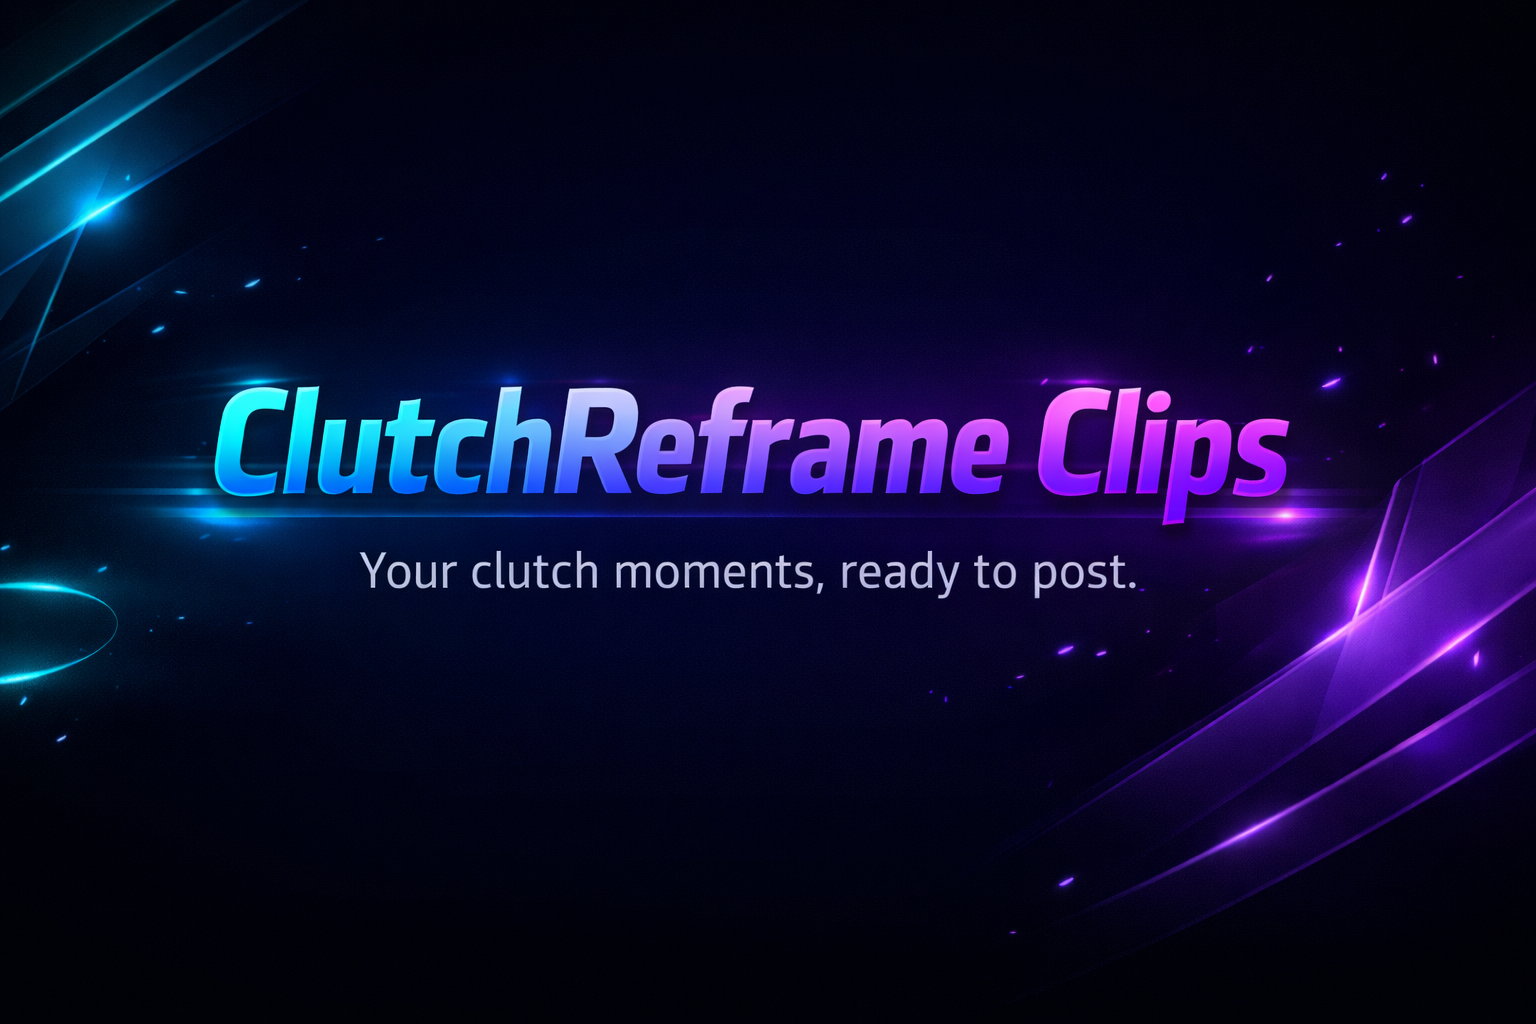
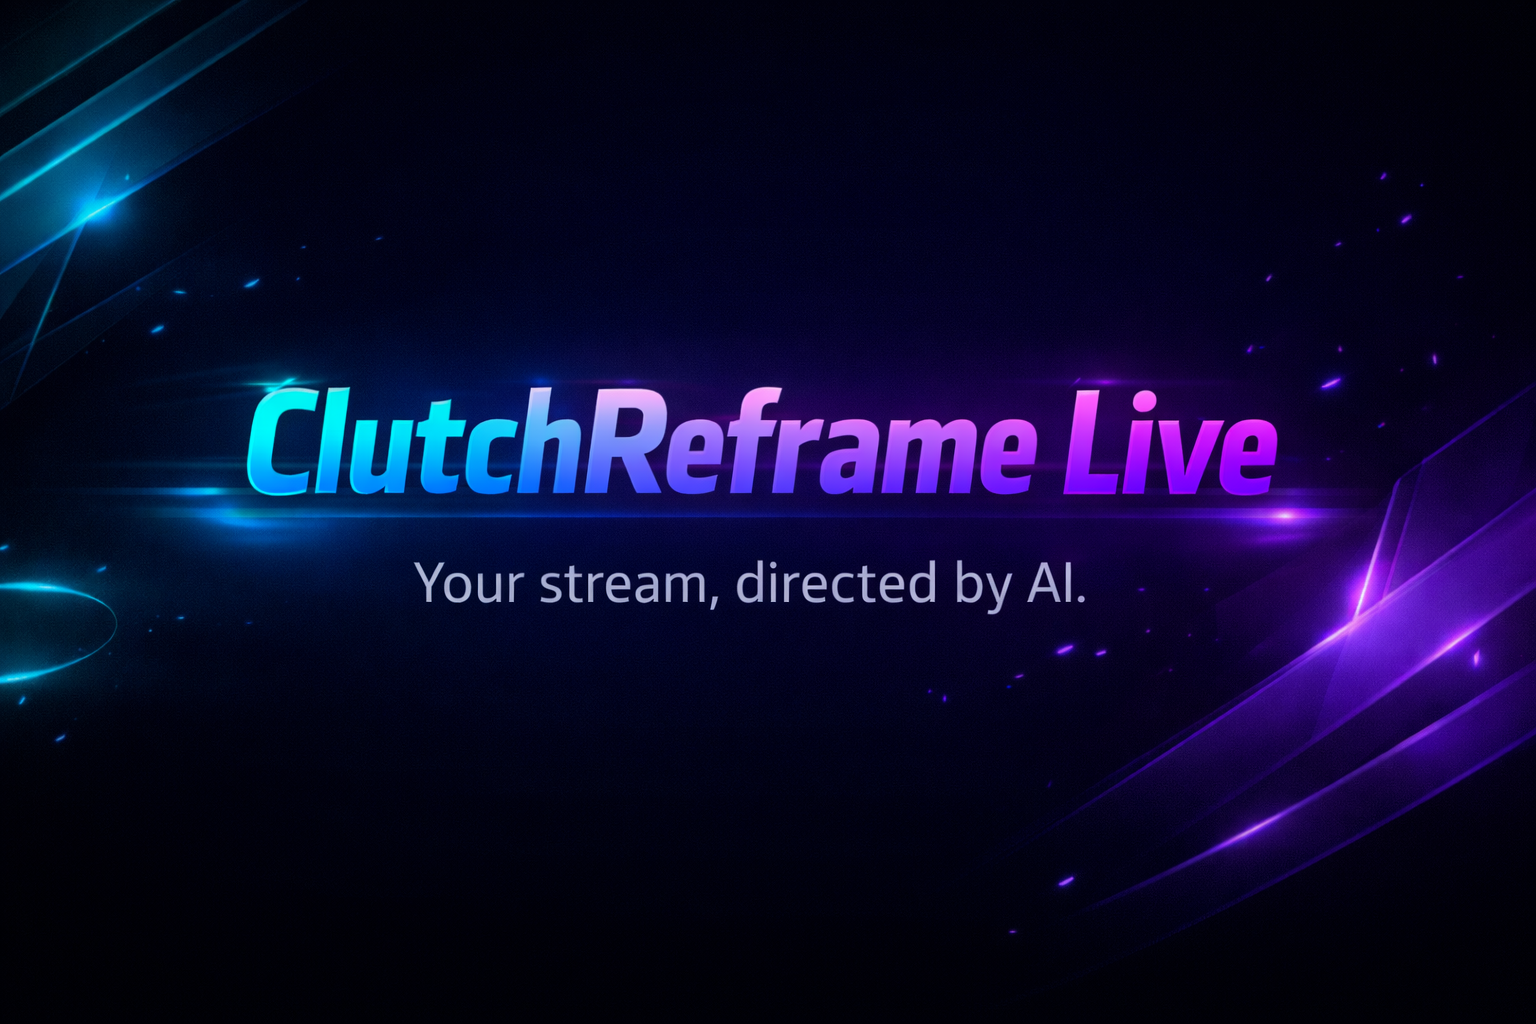
根据产品说明更新网站

diff --git a/index.html b/index.html
@@ -3,13 +3,13 @@
 <head>
     <meta charset="UTF-8">
     <meta name="viewport" content="width=device-width, initial-scale=1.0">
-    <meta name="description" content="ClutchReframe Live | Real-time automatic camera control for League of Legends live streams. Built for OBS Studio. Only affects what viewers see — your game view stays unchanged. Fully local.">
+    <meta name="description" content="ClutchReframe Live | Real-time automatic camera direction for League of Legends live streams. Built as an OBS Studio video filter. Only affects what viewers see. Your game view stays unchanged. Fully local.">
     <meta name="theme-color" content="#05050d">
 
     <!-- Open Graph -->
     <meta property="og:type" content="website">
     <meta property="og:title" content="ClutchReframe Live | LoL Stream Auto-Camera">
-    <meta property="og:description" content="Real-time automatic camera control for LoL live streams. Only your viewers see the camera work — your game view is unchanged. Fully local. Built for OBS Studio.">
+    <meta property="og:description" content="Real-time automatic camera direction for LoL live streams. Only your viewers see the camera work. Your game view is unchanged. Fully local. Built as an OBS Studio video filter.">
     <meta property="og:url" content="https://live.clutchreframe.com/">
     <meta property="og:image" content="https://live.clutchreframe.com/og-image.png">
     <meta property="og:image:width" content="1200">
@@ -19,7 +19,7 @@
     <!-- Twitter Card -->
     <meta name="twitter:card" content="summary_large_image">
     <meta name="twitter:title" content="ClutchReframe Live | LoL Stream Auto-Camera">
-    <meta name="twitter:description" content="Real-time automatic camera control for LoL live streams. Built for OBS Studio.">
+    <meta name="twitter:description" content="Real-time automatic camera direction for LoL live streams. Built as an OBS Studio video filter.">
     <meta name="twitter:image" content="https://live.clutchreframe.com/og-image.png">
 
     <title>ClutchReframe Live | LoL Stream Auto-Camera</title>
@@ -809,7 +809,7 @@
         </h1>
 
         <p class="hero-subtitle">
-            Your stream, directed by AI. Automatic camera control for League of Legends live streams — smart panning and zooming that only your viewers see. No cloud, fully local.
+            Your stream, directed by AI. Automatic camera direction for League of Legends live streams, with smart panning and zooming that only your viewers see. No cloud, fully local.
         </p>
 
         <div class="cta-badge" role="status" aria-label="Coming Soon for OBS Studio">
@@ -843,7 +843,7 @@
         <div class="video-header">
             <div class="section-label">Demo</div>
             <h2 class="section-title gradient-text">See it in action</h2>
-            <p class="section-desc">Watch how ClutchReframe Live automatically controls the camera during a live LoL stream.</p>
+            <p class="section-desc">Watch how ClutchReframe Live automatically directs the camera during a live LoL stream.</p>
         </div>
         <div class="video-wrapper">
             <!-- TODO: Replace PLACEHOLDER_VIDEO_ID with actual Live demo video ID -->
@@ -861,7 +861,7 @@
     <div class="features-header">
         <div class="section-label">Core Features</div>
         <h2 class="section-title gradient-text">Built for live streamers</h2>
-        <p class="section-desc">Professional camera work for your LoL stream, fully automatic. Focus on your game — we handle the broadcast.</p>
+        <p class="section-desc">Professional camera work for your LoL stream, fully automatic. Focus on your game. We handle the broadcast.</p>
     </div>
 
     <div class="cards">
@@ -869,16 +869,16 @@
             <div class="icon-box">
                 <svg viewBox="0 0 24 24" fill="none" stroke="currentColor" stroke-width="1.5" stroke-linecap="round" stroke-linejoin="round"><circle cx="12" cy="12" r="10"/><circle cx="12" cy="12" r="3"/><line x1="12" y1="2" x2="12" y2="6"/><line x1="12" y1="18" x2="12" y2="22"/><line x1="2" y1="12" x2="6" y2="12"/><line x1="18" y1="12" x2="22" y2="12"/></svg>
             </div>
-            <h3>Smart Stream Camera</h3>
-            <p>Automatically pans and zooms your broadcast camera during kills, teamfights, and objectives. Your viewers see dynamic, professional camera work — while your own game view stays completely unchanged.</p>
+            <h3>AI-Powered Broadcast Direction</h3>
+            <p>Continuously directs the broadcast camera like a professional esports broadcast director. Intelligently crops and reframes the game view to fit multiple output aspect ratios (including 9:16 vertical and 16:9 horizontal), smoothly panning and zooming to follow laning, rotations, teamfights, and objectives in real time. Your own game view stays completely unchanged.</p>
         </div>
 
         <div class="card">
             <div class="icon-box">
                 <svg viewBox="0 0 24 24" fill="none" stroke="currentColor" stroke-width="1.5" stroke-linecap="round" stroke-linejoin="round"><polygon points="13 2 3 14 12 14 11 22 21 10 12 10 13 2"/></svg>
             </div>
-            <h3>Real-Time Game Detection</h3>
-            <p>Analyzes your screen capture in real-time to detect key game moments. Recognizes combat, objectives, and game phases to make intelligent camera decisions — all through visual analysis of the broadcast feed, never through game memory.</p>
+            <h3>OBS Video Filter Architecture</h3>
+            <p>Operates as a standard OBS Studio video filter, working entirely within the OBS video processing pipeline. No in-game overlay, no screen injection, no interaction with the game client. A separate local application performs visual analysis and outputs ROI coordinates, while the OBS filter plugin receives these coordinates and applies the video crop.</p>
         </div>
 
         <div class="card">
@@ -886,7 +886,7 @@
                 <svg viewBox="0 0 24 24" fill="none" stroke="currentColor" stroke-width="1.5" stroke-linecap="round" stroke-linejoin="round"><path d="M12 2l8 4v6c0 5.25-3.5 8.75-8 10-4.5-1.25-8-4.75-8-10V6l8-4z"/><path d="M9 12l2 2 4-4"/></svg>
             </div>
             <h3>Fully Local Processing</h3>
-            <p>Every camera decision, every frame analysis, every setting — processed entirely on your machine. No servers. No uploads. Your stream stays yours.</p>
+            <p>Every camera decision, every frame analysis, every setting, processed entirely on your machine. No cloud servers. No data uploads. Your stream stays yours.</p>
         </div>
     </div>
 </section>
@@ -903,19 +903,19 @@
             <div class="step">
                 <div class="step-num">01</div>
                 <h3>Set Up in OBS</h3>
-                <p>Install the ClutchReframe Live plugin in OBS Studio. Add it to your League of Legends game capture source, and you're ready to go.</p>
+                <p>Install the ClutchReframe Live plugin in OBS Studio. Add the video filter to your League of Legends game capture source, and you're ready to go.</p>
             </div>
 
             <div class="step">
                 <div class="step-num">02</div>
                 <h3>Go Live</h3>
-                <p>Start your stream as usual. ClutchReframe Live runs in the background, analyzing your game feed and making camera decisions in real-time — no manual input needed.</p>
+                <p>Start your stream as usual. ClutchReframe Live runs in the background, analyzing your game monitor's screen capture and making camera decisions in real time. No manual input needed.</p>
             </div>
 
             <div class="step">
                 <div class="step-num">03</div>
                 <h3>Enjoy the Show</h3>
-                <p>Your viewers see professional camera work — smooth panning into teamfights, dynamic zooms on key plays. Meanwhile, your own game view stays completely untouched. Just play.</p>
+                <p>Your viewers see professional camera work, with smooth panning into teamfights and dynamic zooms on key plays. Meanwhile, your own game view stays completely untouched. Just play.</p>
             </div>
         </div>
     </div>
@@ -935,7 +935,7 @@
                 <svg viewBox="0 0 24 24" fill="none" stroke="currentColor" stroke-width="1.5" stroke-linecap="round" stroke-linejoin="round"><path d="M12 2l8 4v6c0 5.25-3.5 8.75-8 10-4.5-1.25-8-4.75-8-10V6l8-4z"/></svg>
             </div>
             <h3>Riot Games Compliant</h3>
-            <p>No competitive advantages. No game memory access. Camera decisions are based purely on visual analysis of the broadcast feed. Does not read abilities, cooldowns, health bars, minimap, or any competitive game state. Your in-game view is never altered.</p>
+            <p>Does not use any Riot Games API endpoints. Does not access game memory, modify game files, or inject code into the game process. All camera decisions are based purely on visual analysis of the game monitor's screen capture. Does not extract or track specific competitive data such as abilities, cooldowns, health bars, minimap positions, or any other individual game metrics. Your in-game view is never altered.</p>
         </div>
 
         <div class="compliance-item">
@@ -946,15 +946,15 @@
                 </svg>
             </div>
             <h3>Broadcast Only</h3>
-            <p>ClutchReframe Live only affects what your viewers see. Your actual game screen remains 100% unchanged — no overlays, no information displayed, no advantage gained. It's a pure stream production tool.</p>
+            <p>ClutchReframe Live only affects what your viewers see on the broadcast. Your actual game screen remains 100% unchanged. No in-game overlay, no screen injection, no interaction with the game client. It's a pure stream production tool.</p>
         </div>
 
         <div class="compliance-item">
             <div class="icon-box">
                 <svg viewBox="0 0 24 24" fill="none" stroke="currentColor" stroke-width="1.5" stroke-linecap="round" stroke-linejoin="round"><path d="M21 16V8a2 2 0 00-1-1.73l-7-4a2 2 0 00-2 0l-7 4A2 2 0 003 8v8a2 2 0 001 1.73l7 4a2 2 0 002 0l7-4A2 2 0 0021 16z"/><polyline points="3.27,6.96 12,12.01 20.73,6.96"/><line x1="12" y1="22.08" x2="12" y2="12"/></svg>
             </div>
-            <h3>OBS Studio Plugin</h3>
-            <p>Built as a native OBS Studio plugin. Integrates directly with your existing streaming setup. Works with any OBS-compatible platform — Twitch, YouTube, Kick, and more.</p>
+            <h3>OBS Studio Video Filter</h3>
+            <p>Built as a standard OBS Studio video filter. Works entirely within the OBS video processing pipeline, integrating directly with your existing streaming setup. Compatible with any OBS-supported platform, including Twitch, YouTube, Kick, and more.</p>
         </div>
     </div>
 </section>
@@ -970,22 +970,22 @@
         <div class="faq-list">
             <details>
                 <summary>Does ClutchReframe Live provide any competitive advantage?</summary>
-                <p>No. ClutchReframe Live is a stream production tool that only affects what your viewers see. Your own in-game view is never changed — no overlays, no extra information, no advantage. Camera decisions are based on visual analysis of the broadcast feed, not game memory. It does not track abilities, cooldowns, or any competitive game state.</p>
+                <p>No. ClutchReframe Live is a stream production tool that only affects what your viewers see on the broadcast. Your own in-game view is never altered. All camera decisions are based purely on visual analysis of the game monitor's screen capture. It does not extract or track specific competitive data such as abilities, cooldowns, health bars, minimap positions, or any other individual game metrics.</p>
             </details>
 
             <details>
                 <summary>What data does the plugin process?</summary>
-                <p>ClutchReframe Live analyzes your screen capture locally and in real-time to detect game events and drive camera movements. Frames are processed on-the-fly and never stored or uploaded. The plugin does not read competitive game state. It also stores your local configuration preferences. No personal information is collected or transmitted.</p>
+                <p>ClutchReframe Live analyzes your game monitor's screen capture locally and in real time to detect game events and drive camera movements. Frames are processed on-the-fly and never stored or uploaded. The plugin does not extract or track individual game metrics. It also stores your local configuration preferences. No personal information is collected or transmitted.</p>
             </details>
 
             <details>
                 <summary>Does the plugin read game memory or modify game files?</summary>
-                <p>No. ClutchReframe Live works entirely through screen capture and OBS Studio's plugin interface. It does not access game memory, modify game files, or inject code into the game process.</p>
+                <p>No. ClutchReframe Live does not use any Riot Games API endpoints. It works entirely through visual analysis of the screen capture and OBS Studio's video filter interface. It does not access game memory, modify game files, or inject code into the game process.</p>
             </details>
 
             <details>
                 <summary>Will it affect my game performance?</summary>
-                <p>ClutchReframe Live is designed to be lightweight. The analysis runs as a separate background process, keeping impact on game performance minimal. The OBS plugin itself adds negligible overhead to your stream encoding pipeline.</p>
+                <p>ClutchReframe Live is designed to be lightweight. The analysis runs as a separate local application, keeping impact on game performance minimal. The OBS video filter itself adds negligible overhead to your stream encoding pipeline.</p>
             </details>
 
             <details>
@@ -1011,7 +1011,7 @@
                 <div class="footer-brand-name">
                     <span class="gradient-text">ClutchReframe Live</span>
                 </div>
-                <p class="footer-about">Real-time automatic camera control for League of Legends live streams. Built for OBS Studio. Fully local.</p>
+                <p class="footer-about">Real-time automatic camera direction for League of Legends live streams. Built as an OBS Studio video filter. Fully local.</p>
             </div>
 
             <div class="footer-col">

diff --git a/terms.html b/terms.html
@@ -3,7 +3,7 @@
 <head>
     <meta charset="UTF-8">
     <meta name="viewport" content="width=device-width, initial-scale=1.0">
-    <meta name="description" content="Terms of Service for ClutchReframe Live, a League of Legends live stream camera automation plugin for OBS Studio.">
+    <meta name="description" content="Terms of Service for ClutchReframe Live, a League of Legends live stream camera direction video filter for OBS Studio.">
     <meta name="theme-color" content="#05050d">
 
     <!-- Open Graph -->
@@ -241,13 +241,13 @@
         <p>By installing or using ClutchReframe Live ("the Plugin"), you agree to be bound by these Terms of Service. If you do not agree, please uninstall and discontinue use of the Plugin.</p>
 
         <h2>Description of Service</h2>
-        <p>ClutchReframe Live is a League of Legends live stream camera automation plugin for OBS Studio. It analyzes screen capture frames in real-time to detect game events, and automatically controls the broadcast camera view (panning and zooming) during live streams. All processing occurs locally on your machine. The plugin only affects what stream viewers see — the player's in-game view is never altered.</p>
+        <p>ClutchReframe Live is a real-time automatic camera direction plugin for League of Legends live streams, built as an OBS Studio video filter. It analyzes the game monitor's screen capture in real time to detect game events, and automatically directs the broadcast camera view (panning and zooming) during live streams. All processing occurs locally on your machine. The plugin only affects what stream viewers see; the player's in-game view is never altered.</p>
 
         <h2>Permitted Use</h2>
         <p>You may use ClutchReframe Live for personal, non-commercial enhancement of your own live stream production. Permitted uses include:</p>
         <ul>
             <li>Using the plugin to automate broadcast camera work during your own live streams</li>
-            <li>Broadcasting with automated camera control to any streaming platform via OBS</li>
+            <li>Broadcasting with automated camera direction to any streaming platform via OBS</li>
             <li>Using the Plugin in conjunction with your legitimate Riot Games account</li>
         </ul>
 
@@ -261,12 +261,12 @@
         </ul>
 
         <h2>OBS Studio Integration</h2>
-        <p>ClutchReframe Live operates as a plugin within OBS Studio. Your use of OBS Studio is subject to the <a href="https://obsproject.com" target="_blank" rel="noopener">OBS Studio license terms</a>. ClutchReframe Live does not modify OBS Studio's core functionality beyond providing automated camera control features through its plugin interface.</p>
+        <p>ClutchReframe Live operates as a video filter within OBS Studio. Your use of OBS Studio is subject to the <a href="https://obsproject.com" target="_blank" rel="noopener">OBS Studio license terms</a>. ClutchReframe Live does not modify OBS Studio's core functionality beyond providing automated camera direction features through its video filter interface.</p>
 
         <h2>Riot Games Compliance</h2>
         <p>ClutchReframe Live is designed to comply with Riot Games' third-party application policies. The Plugin does not:</p>
         <ul>
-            <li>Read or transmit in-memory game data — the plugin analyzes only the screen capture of the broadcast feed</li>
+            <li>Read or transmit in-memory game data. All camera decisions are based purely on visual analysis of the game monitor's screen capture</li>
             <li>Alter the player's in-game view or provide any information not already visible on screen</li>
             <li>Provide competitive advantages such as ability timers, cooldown tracking, or map information beyond what is visible on screen</li>
             <li>Automate any in-game actions or inputs</li>

diff --git a/privacy.html b/privacy.html
@@ -240,7 +240,7 @@
         <h2>Data Collection</h2>
         <p><strong>What we collect:</strong></p>
         <ul>
-            <li>Screen capture frames analyzed locally and in real-time to detect game events and drive camera movements. Frames are processed on-the-fly — they are never stored, uploaded, or used to read competitive game state such as abilities, cooldowns, health bars, minimap, or any other competitive information</li>
+            <li>Game monitor's screen capture frames analyzed locally and in real time to detect game events and drive camera movements. Frames are processed on-the-fly and are never stored, uploaded, or used to extract or track specific competitive data such as abilities, cooldowns, health bars, minimap positions, or any other individual game metrics</li>
             <li>Local plugin settings and preferences</li>
         </ul>
 
@@ -258,7 +258,7 @@
         <p>ClutchReframe Live itself does not transmit any of the above data to external servers.</p>
 
         <h2>Third-Party Platform (OBS Studio)</h2>
-        <p>ClutchReframe Live is built as a plugin for <strong>OBS Studio</strong>. OBS Studio is open-source software governed by its own license terms. ClutchReframe Live communicates with OBS exclusively through a local inter-process channel — no data is transmitted to any external server. For details about OBS Studio's data practices, please refer to the <a href="https://obsproject.com" target="_blank" rel="noopener">OBS Project website</a>.</p>
+        <p>ClutchReframe Live is built as a video filter for <strong>OBS Studio</strong>. OBS Studio is open-source software governed by its own license terms. ClutchReframe Live communicates with OBS exclusively through a local inter-process channel. No data is transmitted to any external server. For details about OBS Studio's data practices, please refer to the <a href="https://obsproject.com" target="_blank" rel="noopener">OBS Project website</a>.</p>
 
         <h2>Data Storage</h2>
         <p>All data is stored <strong>locally on your computer</strong>. We operate no servers and do not upload any data to the cloud or any third party.</p>

diff --git a/AGENTS.md b/AGENTS.md
@@ -15,8 +15,8 @@ When adding pages, use flat naming like `about.html` and keep shared visual patt
 ## Build, Test, and Development Commands
 There is no compile/build pipeline.
 
-- `python -m http.server 8080`
-  Runs a local static server at `http://localhost:8080`.
+- `python -m http.server 3000`
+  Runs a local static server at `http://localhost:3000`.
 - `rg --files`
   Quick inventory of tracked files before committing.
 - `git diff --check`

diff --git a/docs/custom-domain-setup.md b/docs/custom-domain-setup.md
@@ -1,9 +1,9 @@
 # 本地访问测试网站
 
 cd C:\Dev\Live-website
-python -m http.server 8080
+python -m http.server 3000
 
-然后访问 http://localhost:8080
+然后访问 http://localhost:3000
 
 
 # 自定义域名绑定指南

diff --git a/CLAUDE.md b/CLAUDE.md
@@ -64,8 +64,8 @@
 
 ## 本地预览
 
-python -m http.server 8080
-# 访问 http://localhost:8080
+python -m http.server 3000
+# 访问 http://localhost:3000
 
 ---
 
